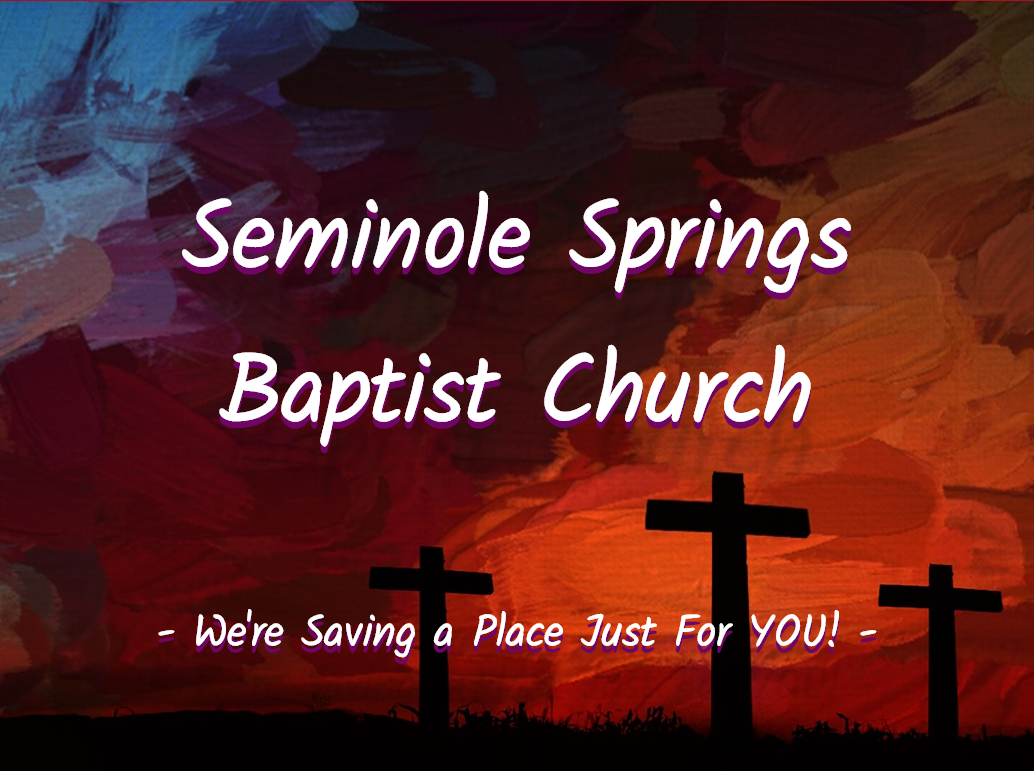
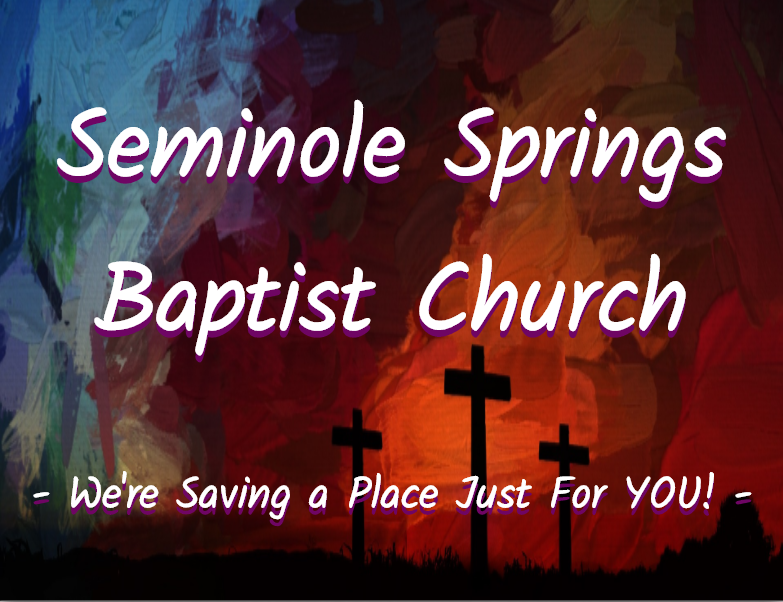
Fixed bugs and added content
Fixed the navbar and footer formatting issues. Also added a small "News/Events" section to the index.html page.

diff --git a/style.css b/style.css
@@ -78,12 +78,6 @@ ul.topNav li.dropdownIcon {
     grid-gap: 2rem;
 }
 
-.innerWrapper {
-    grid-template-columns: 1fr 1fr 1fr;
-    grid-template-rows: 1fr 1fr 10%;
-    grid-auto-rows: minmax(100px, auto);
-}
-
 /*################ Content ###################*/
 
 
@@ -138,7 +132,7 @@ ul.topNav li.dropdownIcon {
 	font-size: 40px;
     position: absolute;
     width: 100%;
-    top: 50%;
+    top: 60%;
     left: 50%;
     transform: translate(-50%, -50%);
 }
@@ -256,12 +250,30 @@ ul.topNav li.dropdownIcon {
     font-size: 24px;
 }
 
+.news {
+    grid-column: 1 / 13;
+	grid-row: 5 / 6;
+    background-color: white;
+    text-align: center;
+    margin: 4rem 0;
+    padding:  4rem 8rem;
+}
+
+.newsImgs {
+    display: flex;
+    flex-wrap: wrap;
+    justify-content: space-around;
+}
+
+.news p, .newsImgs p {
+    text-align: left;
+}
+
 .playlist1, .playlist2, .playlist3 {
     text-align: center;
     background-color: white;
     margin: 2rem 0;
     padding: 1rem 0;
-    
 }
 
 iframe {
@@ -436,18 +448,16 @@ footer {
     grid-column: 1 / 13;
 	grid-row: 6 / 7;
 	background-color: #af111c;
-	font-size: 90%;
-    display: inline-grid;
-	text-align: center;
-    margin: 4rem 0 0 0;
+    display: flex;
+    margin: 0;
 	padding: 1rem;
 	color: white;
     clear: both;
 }
 
-author {
-    font-size: 50%;
-    margin: 0;
+.innerWrapper {
+    display: block;
+    text-align: center;
 }
 
 /*---------------Social Media--------------*/
@@ -475,24 +485,33 @@ author {
     .title {
         grid-column: 1 / 2;
         grid-row: 1 / 2;
+        max-height: 300px;
+        margin: 0;
     }
 
     #title1 {
-        font-size: 44px;
+        font-size: 40px;
         padding: 0;
         margin: 0;
+        width: 100%;
+        max-height: 300px;
+        top: 25%;
+        left: 50%;
+        transform: translate(-50%, -50%);
     }
 
     #catchPhrase {
-        font-size: 20px;
-        padding: 0;
-        margin: 0;
+        font-size: 18px;
+        width: 100%;
+        top: 38%;
+        left: 50%;
+        transform: translate(-50%, -50%);
     }
 
     .sermonsLink, .aboutLink, .contactLink {
         height: 95%;
         border-radius: 0px;
-        margin: 1rem 0;
+        margin: 0;
     }
 
     .sermonsLink {
@@ -553,6 +572,23 @@ author {
     .ptText {
         margin: 0;
         padding: 4px 0;
+    }
+    
+    .news {
+        grid-column: 1 / 13;
+        grid-row: 8 / 9;
+        background-color: white;
+        text-align: center;
+        margin: 4rem 0;
+        padding: 1rem;
+    }
+
+    .newsImgs {
+        display: block;
+    }
+    
+    .newsImgs img {
+        width: 100%;
     }
     
     .playlist1, .playlist2, .playlist3 {
@@ -658,6 +694,8 @@ legend {
     .about {
         grid-column: 1 / 2;
         grid-row: 2 / 3;  
+        padding: 2rem;
+        line-height: 0;
     }
 
     .about h1 {
@@ -683,6 +721,11 @@ legend {
         margin: 1rem 0;
         padding: 2rem;
     }
+    
+    p {
+        font-size: 20px;
+        line-height: 2rem;
+    }
 
     hr {
         margin: 1rem auto;
@@ -690,7 +733,7 @@ legend {
 
     footer {
         grid-column: 1 / 2;
-        grid-row: 8 / 9;
+        grid-row: 9 / 10;
         display: block;
         text-align: center;
         margin: 0;
@@ -706,13 +749,14 @@ legend {
     ul.topNav li.dropdownIcon {
         display: block;
         float: right;
-        padding: 1rem;
     }
     
     ul.topNav.responsive li.dropdownIcon {
         position: absolute;
         top: 0;
         right: 0;
+        padding: 0;
+        margin: 1rem;
     }
 
     ul.topNav.responsive {
@@ -723,23 +767,23 @@ legend {
     }
 
     ul.topNav.responsive li {
-        display: inline;
-        float: none;  
+        display: inline-block;
+        float: none; 
+        padding: 4px;
+        margin: 0;
+        float: right;
     }
     
     ul.topNav.responsive li a {
         display: block;
         text-align: right;
+        border-left: none;
+        border-right: none;
     }
 
     nav ul {
         padding: 0;
         margin: 0;
-    }
-
-    ul.topNav li a {
-        border-left: none;
-        border-right: none;        
     }
 
 }

diff --git a/index.html b/index.html
@@ -32,9 +32,9 @@
     <div class="Wrapper">
         
         <header class="title">
-<!--            <img src="images/crosses.jpg" alt="crosses">-->
+            <img src="images/crosses.jpg" alt="crosses">
             <h1 id="title1">
-                Seminole Springs <br> Baptist Church
+                Seminole Springs Baptist Church
             </h1>
             <h2 id="catchPhrase">
                 - We're Saving a Place Just For YOU! -
@@ -94,26 +94,42 @@
         </div>
     </div>
         
+    <div class="news">
+        <h1>What's going on at SSBC</h1>
+        <p>
+            We have some really exciting events planned here at SSBC! One thing you will find about us is that we are a family here and we love to get together and worship the Lord every chance we get. Come join us for some fun and fellowship!
+        </p>
+        <br>
+        <h2>Easter is right around the corner!</h2>
+        <p>
+            Join us as we celebrate our risen Lord with a resurrection service and an Easter egg hunt for the whole family! We will have FREE food, beverages, games, activities, music, and more. You do NOT want to miss this time of celebration and fellowship!
+        </p>
+        <div class="newsImgs">
+            <img src="images/resDay.jpg" alt="resurrection day flyer">
+            <img src="images/easter.jpg" alt="easter egg hunt flyer">
+        </div>
+    </div>
+        
 <!-- Addition information including my information -->
         
         <footer class="innerWrapper">
             <h3>Phone Number</h3>
-            <h3>Email</h3>
-            <h3>Address</h3>
             <span>352-589-5555</span>
+            <h3>Email</h3>
             <span>
                 <a href="mailto:office@seminolespringsbaptist.com">
                 office@seminolespringsbaptist.com
                 </a>
             </span>
+            <h3>Address</h3>
             <span>
                 <a href="https://www.google.com/maps/place/Seminole+Springs+Baptist+Church/@28.860075,-81.5202986,17z/data=!4m13!1m7!3m6!1s0x88e7a0a7d68f5de9:0x53bb1ae128131d39!2s35025+Huff+Rd,+Eustis,+FL+32736!3b1!8m2!3d28.860075!4d-81.5181099!3m4!1s0x88e7a0a7d68f5de9:0x7db13713aa8ed058!8m2!3d28.860075!4d-81.5181099">
                 35025 Huff Road Eustis, Florida 32736
                 </a>
             </span>
             <br>
-			<span class="author">
-                Website created by Josh McDaniel
+			<span>
+                Seminole Springs Baptist Church 2018&copy;
             </span>
 		</footer>
     </div> 

diff --git a/NewsEvents.html b/NewsEvents.html
@@ -47,24 +47,24 @@
 
     </aside>
 <!-- Addition information including my information -->
-		<footer class="center">
+		<footer class="innerWrapper">
             <h3>Phone Number</h3>
+            <span>352-589-5555</span>
             <h3>Email</h3>
-            <h3>Address</h3>
-            <span>352-589-5555</span> 
             <span>
                 <a href="mailto:office@seminolespringsbaptist.com">
                 office@seminolespringsbaptist.com
                 </a>
             </span>
+            <h3>Address</h3>
             <span>
                 <a href="https://www.google.com/maps/place/Seminole+Springs+Baptist+Church/@28.860075,-81.5202986,17z/data=!4m13!1m7!3m6!1s0x88e7a0a7d68f5de9:0x53bb1ae128131d39!2s35025+Huff+Rd,+Eustis,+FL+32736!3b1!8m2!3d28.860075!4d-81.5181099!3m4!1s0x88e7a0a7d68f5de9:0x7db13713aa8ed058!8m2!3d28.860075!4d-81.5181099">
                 35025 Huff Road Eustis, Florida 32736
                 </a>
             </span>
             <br>
-			<span class="author">
-                Website created by Josh McDaniel
+			<span>
+                Seminole Springs Baptist Church 2018&copy;
             </span>
 		</footer>
 	</div>

diff --git a/Sermons.html b/Sermons.html
@@ -84,22 +84,22 @@
 <!-- Addition information including my information -->
         <footer class="innerWrapper">
             <h3>Phone Number</h3>
+            <span>352-589-5555</span>
             <h3>Email</h3>
-            <h3>Address</h3>
-            <span>352-589-5555</span> 
             <span>
                 <a href="mailto:office@seminolespringsbaptist.com">
                 office@seminolespringsbaptist.com
                 </a>
             </span>
+            <h3>Address</h3>
             <span>
                 <a href="https://www.google.com/maps/place/Seminole+Springs+Baptist+Church/@28.860075,-81.5202986,17z/data=!4m13!1m7!3m6!1s0x88e7a0a7d68f5de9:0x53bb1ae128131d39!2s35025+Huff+Rd,+Eustis,+FL+32736!3b1!8m2!3d28.860075!4d-81.5181099!3m4!1s0x88e7a0a7d68f5de9:0x7db13713aa8ed058!8m2!3d28.860075!4d-81.5181099">
                 35025 Huff Road Eustis, Florida 32736
                 </a>
             </span>
             <br>
-			<span class="author">
-                Website created by Josh McDaniel
+			<span>
+                Seminole Springs Baptist Church 2018&copy;
             </span>
 		</footer>
 	</div>

diff --git a/About.html b/About.html
@@ -137,22 +137,22 @@
         
 		<footer class="innerWrapper">
             <h3>Phone Number</h3>
+            <span>352-589-5555</span>
             <h3>Email</h3>
-            <h3>Address</h3>
-            <span>352-589-5555</span> 
             <span>
                 <a href="mailto:office@seminolespringsbaptist.com">
                 office@seminolespringsbaptist.com
                 </a>
             </span>
+            <h3>Address</h3>
             <span>
                 <a href="https://www.google.com/maps/place/Seminole+Springs+Baptist+Church/@28.860075,-81.5202986,17z/data=!4m13!1m7!3m6!1s0x88e7a0a7d68f5de9:0x53bb1ae128131d39!2s35025+Huff+Rd,+Eustis,+FL+32736!3b1!8m2!3d28.860075!4d-81.5181099!3m4!1s0x88e7a0a7d68f5de9:0x7db13713aa8ed058!8m2!3d28.860075!4d-81.5181099">
                 35025 Huff Road Eustis, Florida 32736
                 </a>
             </span>
             <br>
-			<span class="author">
-                Website created by Josh McDaniel
+			<span>
+                Seminole Springs Baptist Church 2018&copy;
             </span>
 		</footer>
 	</div>

diff --git a/Contact.html b/Contact.html
@@ -148,22 +148,22 @@
         
 		<footer class="innerWrapper">
             <h3>Phone Number</h3>
+            <span>352-589-5555</span>
             <h3>Email</h3>
-            <h3>Address</h3>
-            <span>352-589-5555</span> 
             <span>
                 <a href="mailto:office@seminolespringsbaptist.com">
                 office@seminolespringsbaptist.com
                 </a>
             </span>
+            <h3>Address</h3>
             <span>
                 <a href="https://www.google.com/maps/place/Seminole+Springs+Baptist+Church/@28.860075,-81.5202986,17z/data=!4m13!1m7!3m6!1s0x88e7a0a7d68f5de9:0x53bb1ae128131d39!2s35025+Huff+Rd,+Eustis,+FL+32736!3b1!8m2!3d28.860075!4d-81.5181099!3m4!1s0x88e7a0a7d68f5de9:0x7db13713aa8ed058!8m2!3d28.860075!4d-81.5181099">
                 35025 Huff Road Eustis, Florida 32736
                 </a>
             </span>
             <br>
-			<span class="author">
-                Website created by Josh McDaniel
+			<span>
+                Seminole Springs Baptist Church 2018&copy;
             </span>
 		</footer>
 	</div>
